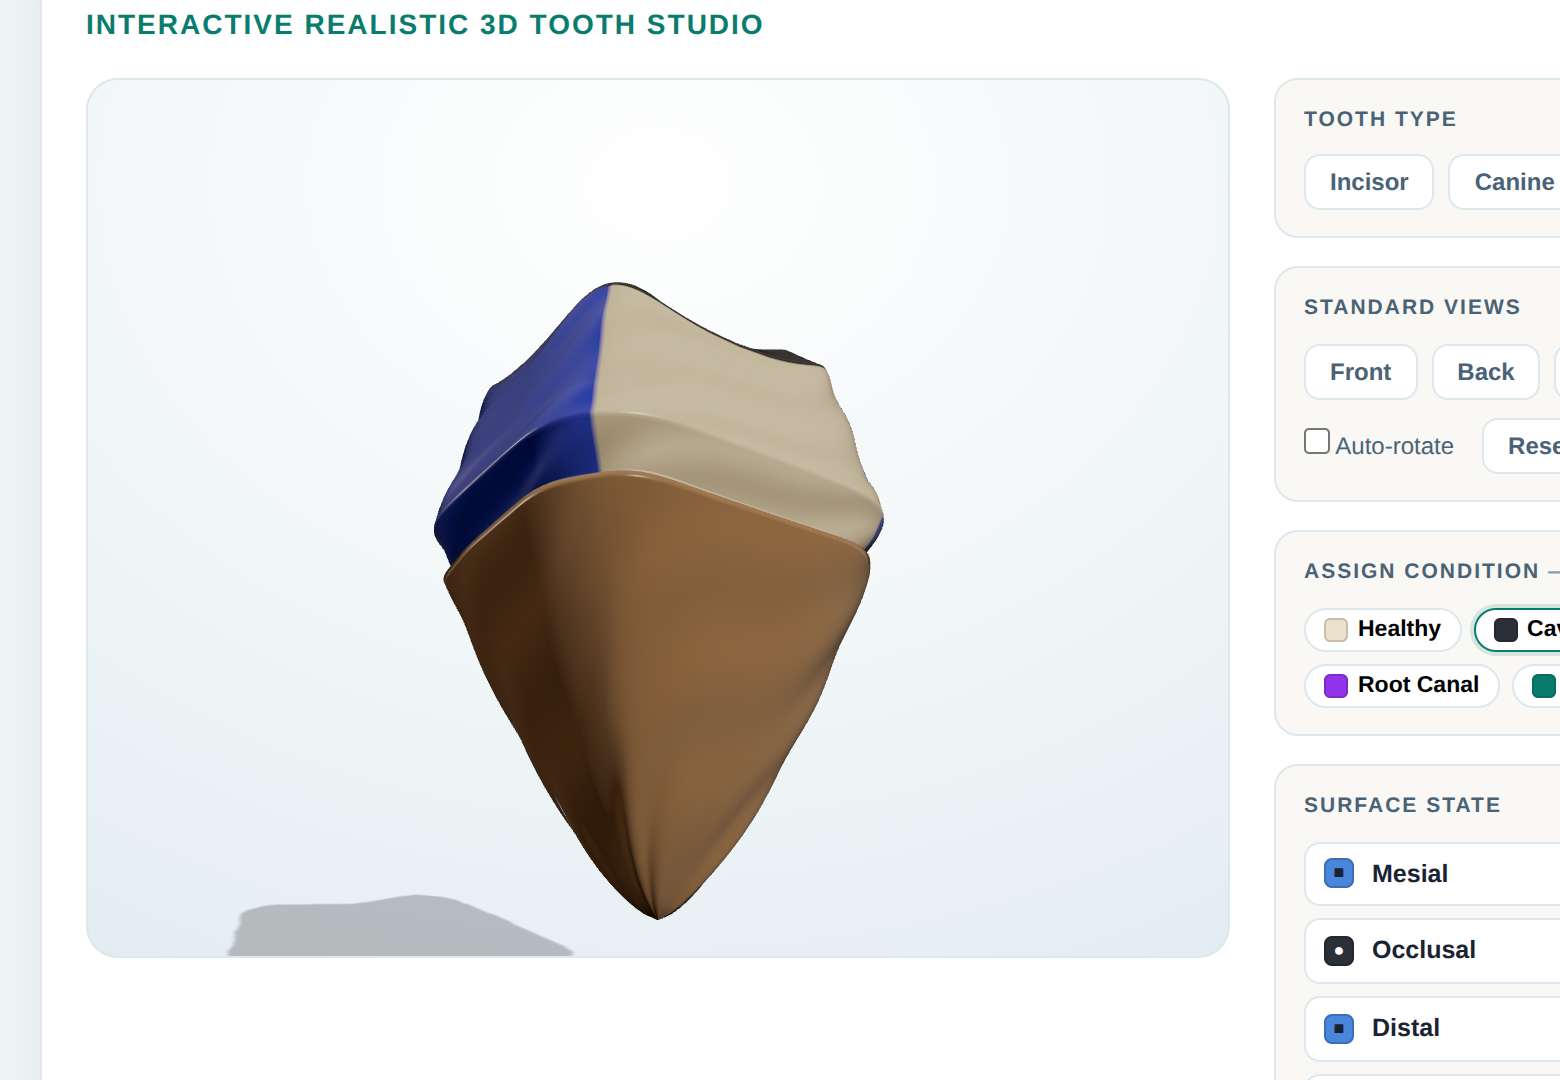
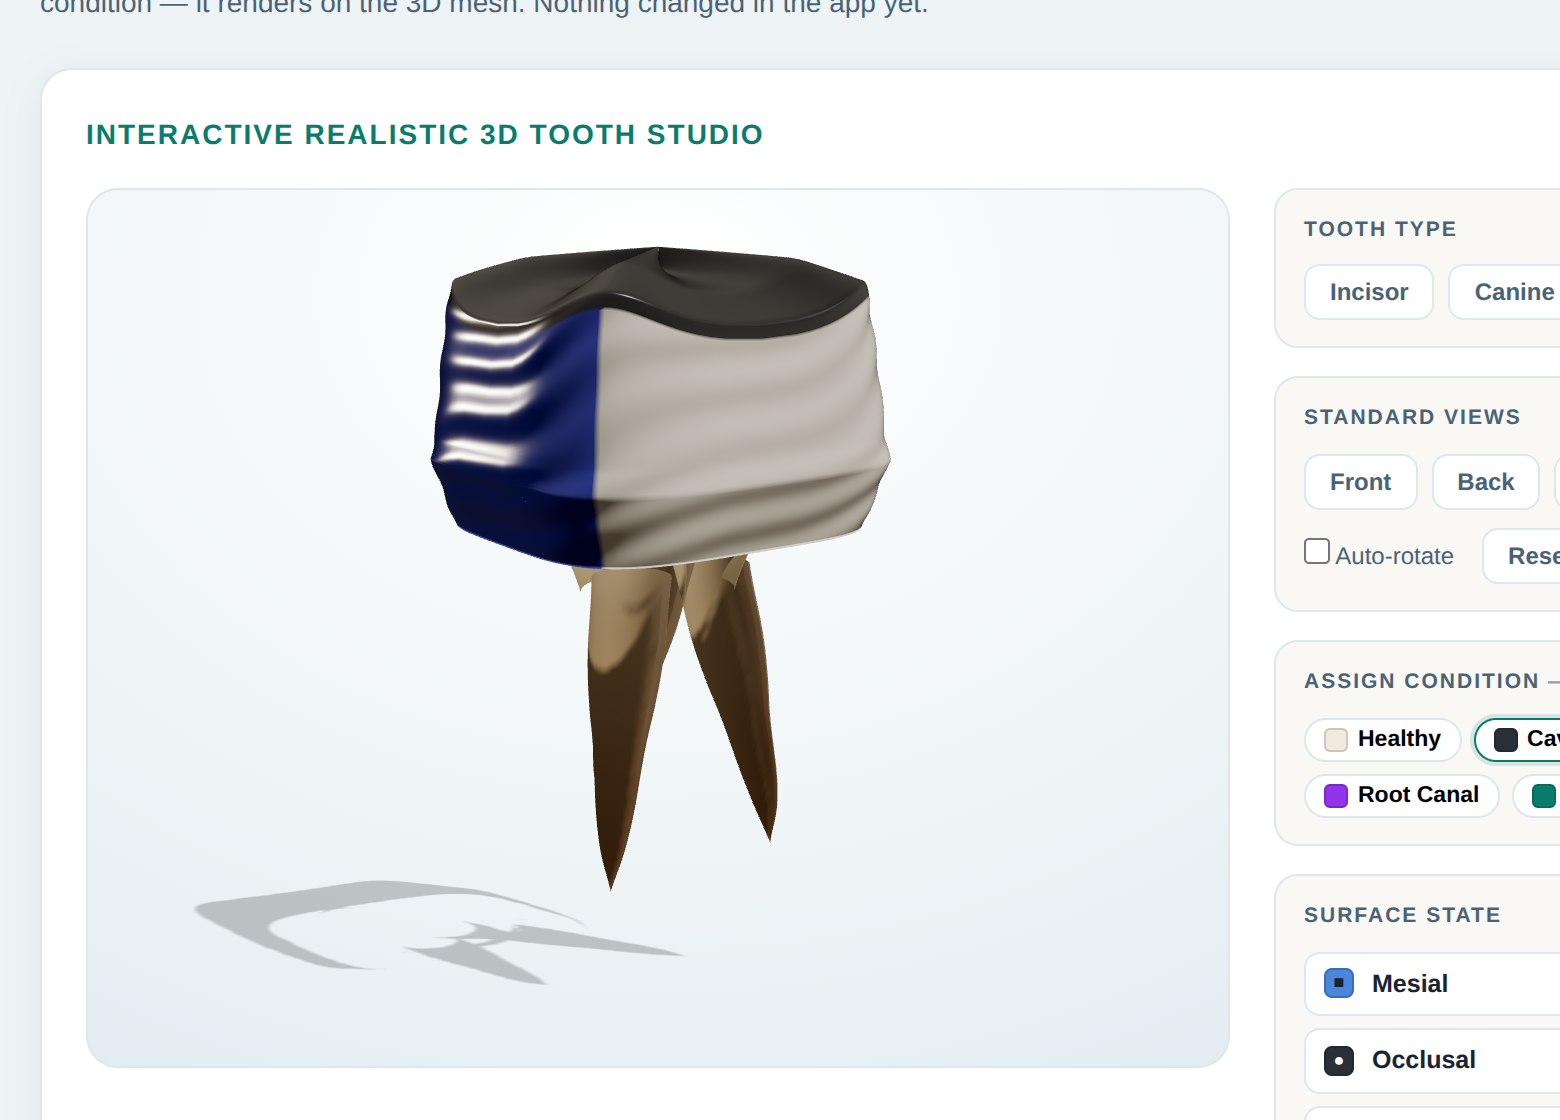
Make 3D tooth more realistic: white enamel crown + tan multi-root with CEJ

diff --git a/dental_3d_realistic_preview.html b/dental_3d_realistic_preview.html
@@ -68,10 +68,10 @@ function(t,e){"object"==typeof exports&&"undefined"!=typeof module?e(exports):"f
 
 </script>
 <script>
-/* Realistic 3D tooth — procedural geometry + physical enamel material */
+/* Realistic 3D tooth — white enamel crown + tan multi-root system (Dundee-style) */
 (function(){
 const CONDITIONS = {
-  healthy:    {label:'Healthy',    color:0xeae0cc, css:'#eae0cc', symbol:''},
+  healthy:    {label:'Healthy',    color:0xf1ebdd, css:'#f1ebdd', symbol:''},
   cavity:     {label:'Cavity',     color:0x2b2f38, css:'#2b2f38', symbol:'●'},
   filling:    {label:'Filling',    color:0x4a86db, css:'#4a86db', symbol:'■'},
   crown:      {label:'Crown',      color:0xd4b04f, css:'#d4b04f', symbol:'♛'},
@@ -80,28 +80,43 @@ const CONDITIONS = {
   veneer:     {label:'Veneer',     color:0xec4899, css:'#ec4899', symbol:'◆'},
 };
 const CONDS=Object.keys(CONDITIONS);
-const ROOTC=0xcbb088;
+const ENAMEL=0xf8f4ed, ROOT_TOP=0xe7dcc6, ROOT_BOT=0xc6a679;
 
 const TYPES={
-  incisor:  {label:'Incisor',  md:0.36, bl:0.30, crownH:1.00, rootH:1.55, nexp:2.3, cuspAmp:0.05, front:'Labial', top:'Incisal'},
-  canine:   {label:'Canine',   md:0.40, bl:0.42, crownH:1.18, rootH:1.75, nexp:2.6, cuspAmp:0.16, front:'Labial', top:'Incisal'},
-  premolar: {label:'Premolar', md:0.52, bl:0.56, crownH:0.92, rootH:1.45, nexp:3.0, cuspAmp:0.13, front:'Buccal', top:'Occlusal'},
-  molar:    {label:'Molar',    md:0.72, bl:0.64, crownH:0.88, rootH:1.30, nexp:4.0, cuspAmp:0.16, front:'Buccal', top:'Occlusal'},
+  incisor:  {label:'Incisor',  md:0.42, bl:0.32, crownH:0.95, nexp:2.3, cuspAmp:0.04, front:'Labial', top:'Incisal'},
+  canine:   {label:'Canine',   md:0.44, bl:0.44, crownH:1.05, nexp:2.6, cuspAmp:0.18, front:'Labial', top:'Incisal'},
+  premolar: {label:'Premolar', md:0.56, bl:0.58, crownH:0.95, nexp:3.0, cuspAmp:0.14, front:'Buccal', top:'Occlusal'},
+  molar:    {label:'Molar',    md:0.78, bl:0.70, crownH:0.98, nexp:4.0, cuspAmp:0.17, front:'Buccal', top:'Occlusal'},
+};
+// root limbs per type: each limb = array of {x,y,z,rx,rz} from neck to apex
+const ROOTS={
+  incisor:[[{x:0,y:0.14,z:0,rx:0.34,rz:0.27},{x:0,y:-0.55,z:0.02,rx:0.20,rz:0.16},{x:0,y:-1.15,z:0.03,rx:0.09,rz:0.08},{x:0,y:-1.62,z:0.02,rx:0,rz:0}]],
+  canine:[[{x:0,y:0.14,z:0,rx:0.36,rz:0.36},{x:0,y:-0.65,z:0.02,rx:0.24,rz:0.23},{x:0,y:-1.4,z:0.04,rx:0.12,rz:0.11},{x:0,y:-2.0,z:0.03,rx:0,rz:0}]],
+  premolar:[[{x:0,y:0.14,z:0,rx:0.40,rz:0.40},{x:0,y:-0.55,z:0,rx:0.24,rz:0.22},{x:0.05,y:-1.25,z:0,rx:0.10,rz:0.09},{x:0.06,y:-1.65,z:0,rx:0,rz:0}]],
+  molar:[
+    // root trunk (wide, fills the crown neck, then narrows toward furcation)
+    [{x:0,y:0.26,z:0,rx:0.62,rz:0.57},{x:0,y:-0.02,z:0,rx:0.45,rz:0.41},{x:0,y:-0.28,z:0,rx:0.34,rz:0.31}],
+    // palatal root (lingual, -z)
+    [{x:0,y:-0.18,z:-0.06,rx:0.20,rz:0.20},{x:0,y:-0.72,z:-0.24,rx:0.14,rz:0.14},{x:0,y:-1.2,z:-0.38,rx:0.07,rz:0.07},{x:0,y:-1.46,z:-0.44,rx:0,rz:0}],
+    // mesiobuccal (-x,+z)
+    [{x:-0.20,y:-0.18,z:0.10,rx:0.17,rz:0.17},{x:-0.30,y:-0.72,z:0.17,rx:0.13,rz:0.13},{x:-0.39,y:-1.2,z:0.24,rx:0.06,rz:0.06},{x:-0.42,y:-1.44,z:0.26,rx:0,rz:0}],
+    // distobuccal (+x,+z)
+    [{x:0.20,y:-0.18,z:0.10,rx:0.17,rz:0.17},{x:0.30,y:-0.72,z:0.17,rx:0.13,rz:0.13},{x:0.39,y:-1.2,z:0.24,rx:0.06,rz:0.06},{x:0.42,y:-1.44,z:0.26,rx:0,rz:0}],
+  ],
 };
 
-let curType='molar', curCond='cavity', selSurf=null, autoSpin=false;
+let curType='molar', curCond='cavity', selSurf=null, autoSpin=false, curView='iso';
 const state={};
 Object.keys(TYPES).forEach(t=>state[t]={mesial:'healthy',distal:'healthy',buccal:'healthy',lingual:'healthy',occlusal:'healthy'});
 
-const rootFrac=0.42;
-function angDiff(a,b){let d=Math.abs(a-b)%(Math.PI*2);return d>Math.PI?Math.PI*2-d:d;}
-function crownWidth(c){
-  if(c<0.2) return lerp(0.93,1.06,c/0.2);
-  if(c<0.78) return lerp(1.06,0.84,(c-0.2)/0.58);
-  if(c<0.9) return lerp(0.84,0.66,(c-0.78)/0.12);
-  return lerp(0.66,0.0,(c-0.9)/0.1);
-}
 function lerp(a,b,t){return a+(b-a)*Math.max(0,Math.min(1,t));}
+function angDiff(a,b){let d=Math.abs(a-b)%(Math.PI*2);return d>Math.PI?Math.PI*2-d:d;}
+function crownW(c){
+  if(c<0.28) return lerp(0.94,1.05,c/0.28);
+  if(c<0.82) return lerp(1.05,0.92,(c-0.28)/0.54);
+  if(c<0.93) return lerp(0.92,0.6,(c-0.82)/0.11);
+  return lerp(0.6,0.0,(c-0.93)/0.07);
+}
 function cuspProfile(type,theta){
   const c=Math.cos(theta);
   if(type==='molar'){let p=0;[Math.PI/4,3*Math.PI/4,5*Math.PI/4,7*Math.PI/4].forEach(a=>{p=Math.max(p,Math.exp(-Math.pow(angDiff(theta,a)/0.66,2)))});return p;}
@@ -110,162 +125,136 @@ function cuspProfile(type,theta){
   return Math.pow(Math.abs(c),1.5);
 }
 function angleRegion(theta){
-  const c=Math.cos(theta), s=Math.sin(theta);
+  const c=Math.cos(theta),s=Math.sin(theta);
   if(Math.abs(c)>Math.abs(s)) return c>0?'distal':'mesial';
   return s>0?'buccal':'lingual';
 }
+function colLin(hex){return new THREE.Color(hex).convertSRGBToLinear();}
 
-function buildGeometry(type){
-  const T=TYPES[type];
-  const SU=120, SV=150;
-  const pos=new Float32Array((SU+1)*(SV+1)*3);
-  const reg=new Array((SU+1)*(SV+1));
-  let k=0;
-  for(let iv=0;iv<=SV;iv++){
-    const v=iv/SV;
-    for(let iu=0;iu<=SU;iu++){
-      const theta=(iu/SU)*Math.PI*2;
-      let y,w;
-      if(v<rootFrac){const t=v/rootFrac;y=-T.rootH*(1-t);w=Math.pow(t,0.7);}
-      else{const c=(v-rootFrac)/(1-rootFrac);y=T.crownH*c;w=crownWidth(c);}
-      const ct=Math.cos(theta),st=Math.sin(theta);
-      const n=T.nexp;
-      const sx=Math.sign(ct)*Math.pow(Math.abs(ct),2/n);
-      const sz=Math.sign(st)*Math.pow(Math.abs(st),2/n);
-      let x=sx*T.md*w, z=sz*T.bl*w;
-      // occlusal cusps
-      if(v>=rootFrac){
-        const c=(v-rootFrac)/(1-rootFrac);
-        const env=Math.max(0,1-Math.pow(Math.abs((c-0.78)/0.4),2));
-        y+=T.cuspAmp*env*cuspProfile(type,theta);
-      }
-      // subtle organic noise on enamel
-      const noise=0.012*Math.sin(theta*7+v*30)*Math.sin(v*18);
-      x+=noise*ct; z+=noise*st;
-      pos[k*3]=x;pos[k*3+1]=y;pos[k*3+2]=z;
-      // region
-      if(v<rootFrac) reg[k]='_root';
-      else{const c=(v-rootFrac)/(1-rootFrac);reg[k]=c>0.76?'occlusal':angleRegion(theta);}
-      k++;
+function buildCrown(type){
+  const T=TYPES[type], SU=120, SV=90;
+  const P=[],C=[],R=[],IDX=[];
+  const white=colLin(ENAMEL);
+  for(let iv=0;iv<=SV;iv++){const c=iv/SV;
+    for(let iu=0;iu<=SU;iu++){const theta=iu/SU*Math.PI*2;
+      const w=crownW(c), n=T.nexp, ct=Math.cos(theta), st=Math.sin(theta);
+      const sx=Math.sign(ct)*Math.pow(Math.abs(ct),2/n), sz=Math.sign(st)*Math.pow(Math.abs(st),2/n);
+      let x=sx*T.md*w, z=sz*T.bl*w, y=T.crownH*c;
+      const env=Math.max(0,1-Math.pow(Math.abs((c-0.78)/0.4),2));
+      y+=T.cuspAmp*env*cuspProfile(type,theta);
+      const noise=0.009*Math.sin(theta*7+c*22)*Math.sin(c*16); x+=noise*ct; z+=noise*st;
+      P.push(x,y,z); C.push(white.r,white.g,white.b);
+      R.push(c>0.76?'occlusal':angleRegion(theta));
     }
   }
-  const idx=[];
-  for(let iv=0;iv<SV;iv++)for(let iu=0;iu<SU;iu++){
-    const a=iv*(SU+1)+iu,b=a+1,cc=a+(SU+1),d=cc+1;
-    idx.push(a,cc,b, b,cc,d);
-  }
+  for(let iv=0;iv<SV;iv++)for(let iu=0;iu<SU;iu++){const a=iv*(SU+1)+iu,b=a+1,cc=a+(SU+1),d=cc+1;IDX.push(a,cc,b,b,cc,d);}
+  // bottom cap
+  const center=(SV+1)*(SU+1); P.push(0,0,0); C.push(white.r,white.g,white.b); R.push('_base');
+  for(let iu=0;iu<SU;iu++) IDX.push(center, iu+1, iu);
   const g=new THREE.BufferGeometry();
-  g.setAttribute('position',new THREE.BufferAttribute(pos,3));
-  g.setIndex(idx);
-  g.computeVertexNormals();
-  // vertex colors
-  const col=new Float32Array((SU+1)*(SV+1)*3);
-  g.setAttribute('color',new THREE.BufferAttribute(col,3));
-  g._regions=reg;
+  g.setAttribute('position',new THREE.Float32BufferAttribute(P,3));
+  g.setAttribute('color',new THREE.Float32BufferAttribute(C,3));
+  g.setIndex(IDX); g.computeVertexNormals(); g._regions=R;
   return g;
 }
 
+function densify(samples,n){
+  const curve=new THREE.CatmullRomCurve3(samples.map(s=>new THREE.Vector3(s.x,s.y,s.z)),false,'catmullrom',0.5);
+  const pts=curve.getPoints(n);
+  const out=[];
+  for(let i=0;i<pts.length;i++){
+    const t=i/(pts.length-1), fi=t*(samples.length-1), lo=Math.floor(fi), hi=Math.min(samples.length-1,lo+1), f=fi-lo;
+    out.push({p:pts[i], rx:samples[lo].rx*(1-f)+samples[hi].rx*f, rz:samples[lo].rz*(1-f)+samples[hi].rz*f});
+  }
+  return out;
+}
+function buildRoots(type){
+  const limbs=ROOTS[type], segs=26;
+  const P=[],C=[],IDX=[]; let base=0;
+  limbs.forEach(s=>{
+    const ring=densify(s,44), start=base;
+    for(let i=0;i<ring.length;i++){
+      const o=ring[i].p, rx=ring[i].rx, rz=ring[i].rz;
+      const tcol=colLin(new THREE.Color(ROOT_TOP).lerp(new THREE.Color(ROOT_BOT),Math.min(1,Math.max(0,-o.y/1.8))).getHex());
+      const wob=1+0.05*Math.sin(o.y*9); // subtle organic taper variation
+      for(let j=0;j<=segs;j++){
+        const a=j/segs*Math.PI*2;
+        P.push(o.x+Math.cos(a)*rx*wob, o.y, o.z+Math.sin(a)*rz*wob);
+        C.push(tcol.r,tcol.g,tcol.b);
+      }
+    }
+    for(let i=0;i<ring.length-1;i++)for(let j=0;j<segs;j++){
+      const a=start+i*(segs+1)+j,b=a+1,cc=a+(segs+1),d=cc+1;IDX.push(a,cc,b,b,cc,d);
+    }
+    base+=ring.length*(segs+1);
+  });
+  const g=new THREE.BufferGeometry();
+  g.setAttribute('position',new THREE.Float32BufferAttribute(P,3));
+  g.setAttribute('color',new THREE.Float32BufferAttribute(C,3));
+  g.setIndex(IDX); g.computeVertexNormals();
+  return g;
+}
+
+let scene,camera,renderer,group,crown,roots,raycaster;
+const vp=document.getElementById('vp');
+const CENTER_Y=0.45;
+function init(){
+  scene=new THREE.Scene();
+  const W=vp.clientWidth,H=vp.clientHeight;
+  camera=new THREE.PerspectiveCamera(33,W/H,0.1,100);camera.position.set(0,0,6.2);
+  renderer=new THREE.WebGLRenderer({antialias:true,alpha:true,preserveDrawingBuffer:true});
+  renderer.setSize(W,H);renderer.setPixelRatio(Math.min(2,window.devicePixelRatio));
+  renderer.shadowMap.enabled=true;renderer.shadowMap.type=THREE.PCFSoftShadowMap;
+  renderer.outputColorSpace=THREE.SRGBColorSpace;renderer.toneMapping=THREE.ACESFilmicToneMapping;renderer.toneMappingExposure=1.0;
+  vp.appendChild(renderer.domElement);
+  scene.add(new THREE.HemisphereLight(0xffffff,0x9a8a78,0.7));
+  const key=new THREE.DirectionalLight(0xffffff,1.8);key.position.set(3,5,4);key.castShadow=true;
+  key.shadow.mapSize.set(1024,1024);key.shadow.camera.near=1;key.shadow.camera.far=20;key.shadow.bias=-0.0006;scene.add(key);
+  const fill=new THREE.DirectionalLight(0xfff0e0,0.5);fill.position.set(-4,1,-2);scene.add(fill);
+  const rim=new THREE.DirectionalLight(0xd6ecff,0.75);rim.position.set(-1,-1,-5);scene.add(rim);
+
+  group=new THREE.Group();scene.add(group);
+  const enMat=new THREE.MeshPhysicalMaterial({vertexColors:true,color:0xffffff,roughness:0.24,metalness:0,clearcoat:0.9,clearcoatRoughness:0.16,sheen:0.6,sheenColor:new THREE.Color(0xfff6ea),reflectivity:0.5});
+  const rtMat=new THREE.MeshPhysicalMaterial({vertexColors:true,color:0xffffff,roughness:0.62,metalness:0,clearcoat:0.12,clearcoatRoughness:0.55});
+  crown=new THREE.Mesh(buildCrown(curType),enMat);crown.castShadow=true;crown.receiveShadow=true;crown.position.y=CENTER_Y;
+  roots=new THREE.Mesh(buildRoots(curType),rtMat);roots.castShadow=true;roots.receiveShadow=true;roots.position.y=CENTER_Y;
+  group.add(crown);group.add(roots);
+  applyColors();
+  const plane=new THREE.Mesh(new THREE.PlaneGeometry(14,14),new THREE.ShadowMaterial({opacity:0.2}));
+  plane.rotation.x=-Math.PI/2;plane.position.y=-1.55;plane.receiveShadow=true;scene.add(plane);
+  raycaster=new THREE.Raycaster();
+  setView('iso');animate();
+}
+function rebuild(){crown.geometry.dispose();roots.geometry.dispose();crown.geometry=buildCrown(curType);roots.geometry=buildRoots(curType);applyColors();}
 function applyColors(){
-  const g=mesh.geometry; const reg=g._regions; const col=g.attributes.color;
-  const ivory=new THREE.Color(CONDITIONS.healthy.color).convertSRGBToLinear();
-  const root=new THREE.Color(ROOTC).convertSRGBToLinear();
+  const g=crown.geometry,reg=g._regions,col=g.attributes.color,white=colLin(ENAMEL);
   for(let i=0;i<reg.length;i++){
-    let c;
-    if(reg[i]==='_root') c=root;
-    else{const s=state[curType][reg[i]];c=s&&s!=='healthy'?new THREE.Color(CONDITIONS[s].color).convertSRGBToLinear():ivory;}
+    let c=white;
+    if(reg[i]!=='_base'){const s=state[curType][reg[i]];if(s&&s!=='healthy')c=colLin(CONDITIONS[s].color);}
     col.setXYZ(i,c.r,c.g,c.b);
   }
   col.needsUpdate=true;
 }
-
-// ── scene ──
-let scene,camera,renderer,group,mesh,raycaster,labelSprites=[];
-const vp=document.getElementById('vp');
-function init(){
-  scene=new THREE.Scene();
-  const W=vp.clientWidth,H=vp.clientHeight;
-  camera=new THREE.PerspectiveCamera(34,W/H,0.1,100);
-  camera.position.set(0,0.2,5.4);
-  renderer=new THREE.WebGLRenderer({antialias:true,alpha:true,preserveDrawingBuffer:true});
-  renderer.setSize(W,H);renderer.setPixelRatio(Math.min(2,window.devicePixelRatio));
-  renderer.shadowMap.enabled=true;renderer.shadowMap.type=THREE.PCFSoftShadowMap;
-  renderer.outputColorSpace=THREE.SRGBColorSpace;
-  renderer.toneMapping=THREE.ACESFilmicToneMapping;renderer.toneMappingExposure=1.05;
-  vp.appendChild(renderer.domElement);
-
-  scene.add(new THREE.HemisphereLight(0xffffff,0x6b5640,0.85));
-  const key=new THREE.DirectionalLight(0xffffff,1.7);key.position.set(3,5,4);key.castShadow=true;
-  key.shadow.mapSize.set(1024,1024);key.shadow.camera.near=1;key.shadow.camera.far=20;key.shadow.bias=-0.0007;
-  scene.add(key);
-  const fill=new THREE.DirectionalLight(0xfff0e0,0.55);fill.position.set(-4,1,-2);scene.add(fill);
-  const rim=new THREE.DirectionalLight(0xd6ecff,0.7);rim.position.set(-1,-2,-5);scene.add(rim);
-
-  group=new THREE.Group();scene.add(group);
-  const mat=new THREE.MeshPhysicalMaterial({
-    vertexColors:true,roughness:0.32,metalness:0.0,
-    clearcoat:0.7,clearcoatRoughness:0.22,
-    sheen:0.5,sheenColor:new THREE.Color(0xfff4e6),
-    reflectivity:0.4,
-  });
-  mesh=new THREE.Mesh(buildGeometry(curType),mat);
-  mesh.castShadow=true;mesh.receiveShadow=true;
-  group.add(mesh);
-  applyColors();
-
-  // ground shadow catcher
-  const planeGeo=new THREE.PlaneGeometry(12,12);
-  const planeMat=new THREE.ShadowMaterial({opacity:0.22});
-  const plane=new THREE.Mesh(planeGeo,planeMat);
-  plane.rotation.x=-Math.PI/2;plane.position.y=-2.0;plane.receiveShadow=true;
-  scene.add(plane);
-
-  raycaster=new THREE.Raycaster();
-  setView('iso');
-  animate();
-}
-function rebuild(){
-  mesh.geometry.dispose();
-  mesh.geometry=buildGeometry(curType);
-  applyColors();
-}
-const VIEWS={front:[0,0],lingual:[0,Math.PI],mesial:[0,-Math.PI/2],distal:[0,Math.PI/2],occlusal:[Math.PI/2,0],iso:[-0.5,0.6]};
+const VIEWS={front:[0.12,0],lingual:[0.12,Math.PI],mesial:[0.12,-Math.PI/2],distal:[0.12,Math.PI/2],occlusal:[Math.PI/2-0.15,0],iso:[0.28,0.62]};
 let tgtX=0,tgtY=0;
 function setView(v){const[a,b]=VIEWS[v];tgtX=a;tgtY=b;curView=v;markBtns();}
-let curView='iso';
+function animate(){requestAnimationFrame(animate);if(autoSpin)tgtY+=0.012;group.rotation.x+=(tgtX-group.rotation.x)*0.15;group.rotation.y+=(tgtY-group.rotation.y)*0.15;renderer.render(scene,camera);}
 
-function animate(){
-  requestAnimationFrame(animate);
-  if(autoSpin) tgtY+=0.012;
-  group.rotation.x+=(tgtX-group.rotation.x)*0.15;
-  group.rotation.y+=(tgtY-group.rotation.y)*0.15;
-  renderer.render(scene,camera);
-}
-
-// ── interaction ──
 let down=false,moved=false,lx=0,ly=0;
 vp.addEventListener('pointerdown',e=>{down=true;moved=false;lx=e.clientX;ly=e.clientY;vp.setPointerCapture(e.pointerId);});
-vp.addEventListener('pointermove',e=>{
-  if(!down)return;const dx=e.clientX-lx,dy=e.clientY-ly;
-  if(Math.abs(dx)+Math.abs(dy)>3)moved=true;
-  tgtY+=dx*0.01;tgtX+=dy*0.01;tgtX=Math.max(-1.4,Math.min(1.4,tgtX));
-  lx=e.clientX;ly=e.clientY;
-});
+vp.addEventListener('pointermove',e=>{if(!down)return;const dx=e.clientX-lx,dy=e.clientY-ly;if(Math.abs(dx)+Math.abs(dy)>3)moved=true;tgtY+=dx*0.01;tgtX+=dy*0.01;tgtX=Math.max(-1.4,Math.min(1.4,tgtX));lx=e.clientX;ly=e.clientY;});
 vp.addEventListener('pointerup',e=>{down=false;if(!moved)pick(e);});
 vp.addEventListener('pointercancel',()=>down=false);
 function pick(e){
   const r=renderer.domElement.getBoundingClientRect();
   const m=new THREE.Vector2(((e.clientX-r.left)/r.width)*2-1,-((e.clientY-r.top)/r.height)*2+1);
   raycaster.setFromCamera(m,camera);
-  const hit=raycaster.intersectObject(mesh,false)[0];
+  const hit=raycaster.intersectObject(crown,false)[0];
   if(!hit)return;
-  const region=mesh.geometry._regions[hit.face.a];
-  if(!region||region==='_root')return;
-  selSurf=region;
-  if(curCond){state[curType][region]=curCond;applyColors();}
-  renderPanels();
+  const region=crown.geometry._regions[hit.face.a];
+  if(!region||region==='_base')return;
+  selSurf=region;if(curCond)state[curType][region]=curCond;applyColors();renderPanels();
 }
-
-// ── UI panels ──
 function labelFor(k){const isF=(curType==='incisor'||curType==='canine');if(k==='buccal')return isF?'Labial':'Buccal';if(k==='occlusal')return isF?'Incisal':'Occlusal';return k.charAt(0).toUpperCase()+k.slice(1);}
 function markBtns(){
   document.querySelectorAll('#typeBtns .b').forEach(b=>b.classList.toggle('act',b.dataset.t===curType));
@@ -277,29 +266,25 @@ function renderPanels(){
   document.getElementById('selSurf').textContent=selSurf?('— '+labelFor(selSurf)):'';
   const el=document.getElementById('surfList');el.innerHTML='';
   ['mesial','occlusal','distal','buccal','lingual'].forEach(k=>{
-    const cKey=state[curType][k];const c=CONDITIONS[cKey];
-    const d=document.createElement('div');d.className='surf-item';
+    const cKey=state[curType][k],c=CONDITIONS[cKey],d=document.createElement('div');d.className='surf-item';
     if(selSurf===k)d.style.boxShadow='0 0 0 2px var(--t)';
     d.innerHTML=`<span class="dot" style="background:${c.css};color:${cKey==='cavity'?'#fff':'#1a2332'}">${c.symbol||''}</span><span class="sn">${labelFor(k)}</span><span class="sc">${c.label}</span>`;
-    d.onclick=()=>{selSurf=k;renderPanels();};
-    el.appendChild(d);
+    d.onclick=()=>{selSurf=k;renderPanels();};el.appendChild(d);
   });
 }
-
-// build controls
 const typeBtns=document.getElementById('typeBtns');
 Object.entries(TYPES).forEach(([k,v])=>{const b=document.createElement('button');b.className='b';b.dataset.t=k;b.textContent=v.label;b.onclick=()=>{curType=k;selSurf=null;rebuild();renderPanels();};typeBtns.appendChild(b);});
 const viewBtns=document.getElementById('viewBtns');
 [['front','Front'],['lingual','Back'],['mesial','Mesial'],['distal','Distal'],['occlusal','Top'],['iso','3D']].forEach(([v,l])=>{const b=document.createElement('button');b.className='b';b.dataset.v=v;b.textContent=l;b.onclick=()=>setView(v);viewBtns.appendChild(b);});
 const condPick=document.getElementById('condPick');
-CONDS.forEach(k=>{const c=CONDITIONS[k];const b=document.createElement('button');b.className='cp';b.dataset.c=k;b.innerHTML=`<span class="sw" style="background:${c.css}"></span>${c.label}`;b.onclick=()=>{curCond=k;if(selSurf){state[curType][selSurf]=k;applyColors();}renderPanels();};condPick.appendChild(b);});
+CONDS.forEach(k=>{const c=CONDITIONS[k];const b=document.createElement('button');b.className='cp';b.dataset.c=k;b.innerHTML=`<span class="sw" style="background:${c.css}"></span>${c.label}`;b.onclick=()=>{curCond=k;if(selSurf)state[curType][selSurf]=k;applyColors();renderPanels();};condPick.appendChild(b);});
 document.getElementById('spin').addEventListener('change',e=>{autoSpin=e.target.checked;});
 document.getElementById('reset').addEventListener('click',()=>{Object.keys(state[curType]).forEach(k=>state[curType][k]='healthy');selSurf=null;applyColors();renderPanels();});
 window.addEventListener('resize',()=>{const W=vp.clientWidth,H=vp.clientHeight;camera.aspect=W/H;camera.updateProjectionMatrix();renderer.setSize(W,H);});
 
 init();renderPanels();
 window.__setView=setView;window.__rebuild=rebuild;
-window.__demo=function(){state.molar.occlusal='cavity';state.molar.mesial='filling';state.molar.distal='filling';applyColors();renderPanels();};
+window.__demo=function(){state.molar.occlusal='cavity';state.molar.mesial='filling';applyColors();renderPanels();};
 window.__setType=function(t){curType=t;selSurf=null;rebuild();renderPanels();};
 })();
 </script></body></html>